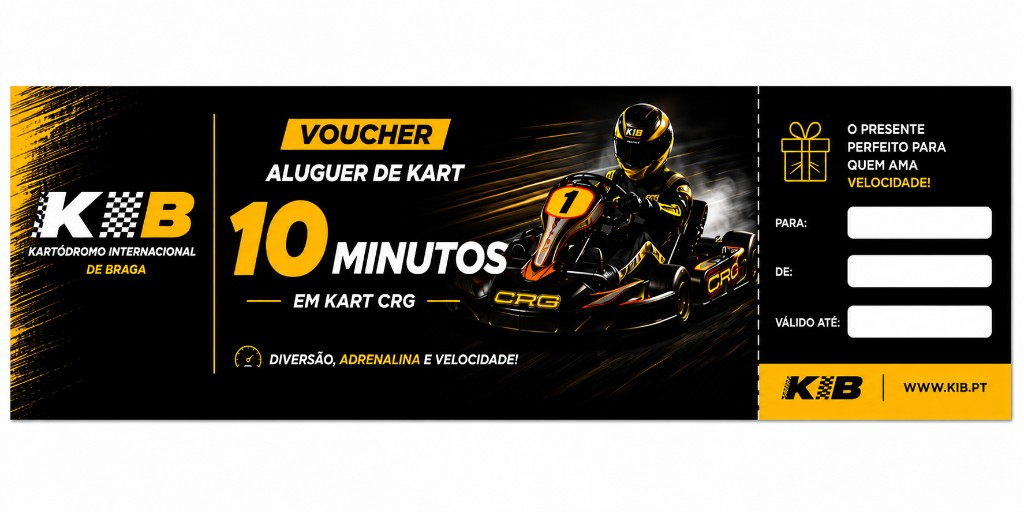
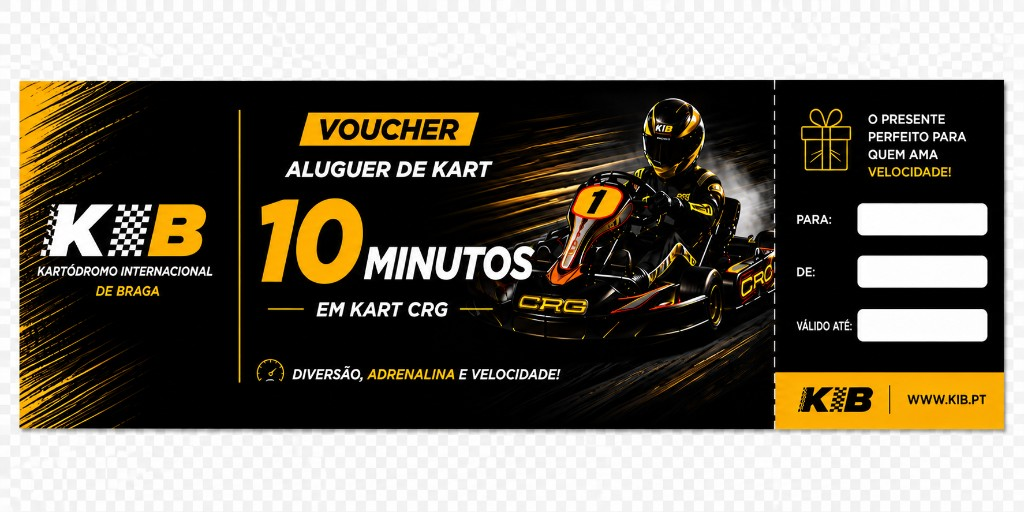
Atualização do site

Changed region(s): [[0.0, 0.1562, 1.0, 0.875], [0.8125, 0.5, 0.8438, 0.5625], [0.5312, 0.6562, 0.5625, 0.6875]]

diff --git a/src/components/VouchersSection.tsx b/src/components/VouchersSection.tsx
@@ -1,6 +1,6 @@
 "use client";
 
-import { useState } from "react";
+import { useState, useEffect } from "react";
 import Image from "next/image";
 import { Gift, ChevronDown } from "lucide-react";
 import { SectionTitle } from "@/components/ui/SectionTitle";
@@ -16,6 +16,18 @@ const voucherImages = [
 export function VouchersSection() {
   const [isOpen, setIsOpen] = useState(false);
   const t = useTranslations();
+
+  useEffect(() => {
+    const openFromHash = () => {
+      if (window.location.hash === "#vouchers") {
+        setIsOpen(true);
+      }
+    };
+
+    openFromHash();
+    window.addEventListener("hashchange", openFromHash);
+    return () => window.removeEventListener("hashchange", openFromHash);
+  }, []);
 
   return (
     <section id="vouchers" className="relative bg-kib-black py-20 sm:py-28">
@@ -54,13 +66,13 @@ export function VouchersSection() {
               key={item.title}
               className="overflow-hidden rounded-2xl border border-white/10 bg-kib-card shadow-xl shadow-black/30"
             >
-              <div className="relative aspect-[16/10] w-full bg-kib-black">
+              <div className="relative aspect-[16/10] w-full bg-transparent">
                 <Image
                   src={voucherImages[index]}
                   alt={item.alt}
                   fill
                   sizes="(max-width: 640px) 100vw, (max-width: 1024px) 50vw, 33vw"
-                  className="object-contain object-center p-2"
+                  className="object-contain object-center p-3"
                 />
               </div>
               <div className="border-t border-white/10 px-5 py-4">

diff --git a/src/components/Hero.tsx b/src/components/Hero.tsx
@@ -1,7 +1,7 @@
 "use client";
 
 import Image from "next/image";
-import { ChevronRight, Gauge, FileText, Clock, Phone } from "lucide-react";
+import { ChevronRight, Gauge, FileText, Clock, Phone, Gift } from "lucide-react";
 import { Button } from "@/components/ui/Button";
 import { useTranslations } from "@/i18n/LanguageProvider";
 
@@ -71,6 +71,10 @@ export function Hero() {
             <Button href="/precario" variant="primary">
               {t.hero.pricing}
               <ChevronRight className="h-4 w-4" />
+            </Button>
+            <Button href="/#vouchers" variant="primary">
+              <Gift className="h-4 w-4" />
+              {t.hero.vouchers}
             </Button>
           </div>
         </div>

diff --git a/src/i18n/translations/fr.ts b/src/i18n/translations/fr.ts
@@ -33,6 +33,7 @@ export const fr: Translations = {
     hours: "Horaires",
     contacts: "Contact",
     pricing: "Voir les Tarifs",
+    vouchers: "Vouchers",
     imageAlt:
       "Course de karts au Kartódromo Internacional de Braga avec l'arche Rotax Racing",
   },

diff --git a/src/i18n/translations/pt.ts b/src/i18n/translations/pt.ts
@@ -33,6 +33,7 @@ export const pt: Translations = {
     hours: "Horários",
     contacts: "Contactos",
     pricing: "Ver Preçário",
+    vouchers: "Vouchers",
     imageAlt:
       "Corrida de karts no Kartódromo Internacional de Braga com arco Rotax Racing",
   },

diff --git a/src/i18n/translations/es.ts b/src/i18n/translations/es.ts
@@ -33,6 +33,7 @@ export const es: Translations = {
     hours: "Horarios",
     contacts: "Contacto",
     pricing: "Ver Tarifas",
+    vouchers: "Vouchers",
     imageAlt:
       "Carrera de karts en el Kartódromo Internacional de Braga con arco Rotax Racing",
   },

diff --git a/src/i18n/translations/en.ts b/src/i18n/translations/en.ts
@@ -33,6 +33,7 @@ export const en: Translations = {
     hours: "Opening Hours",
     contacts: "Contact",
     pricing: "View Pricing",
+    vouchers: "Vouchers",
     imageAlt:
       "Kart race at Kartódromo Internacional de Braga with Rotax Racing arch",
   },

diff --git a/src/i18n/types.ts b/src/i18n/types.ts
@@ -48,6 +48,7 @@ export interface Translations {
     hours: string;
     contacts: string;
     pricing: string;
+    vouchers: string;
     imageAlt: string;
   };
   photoPreview: {
